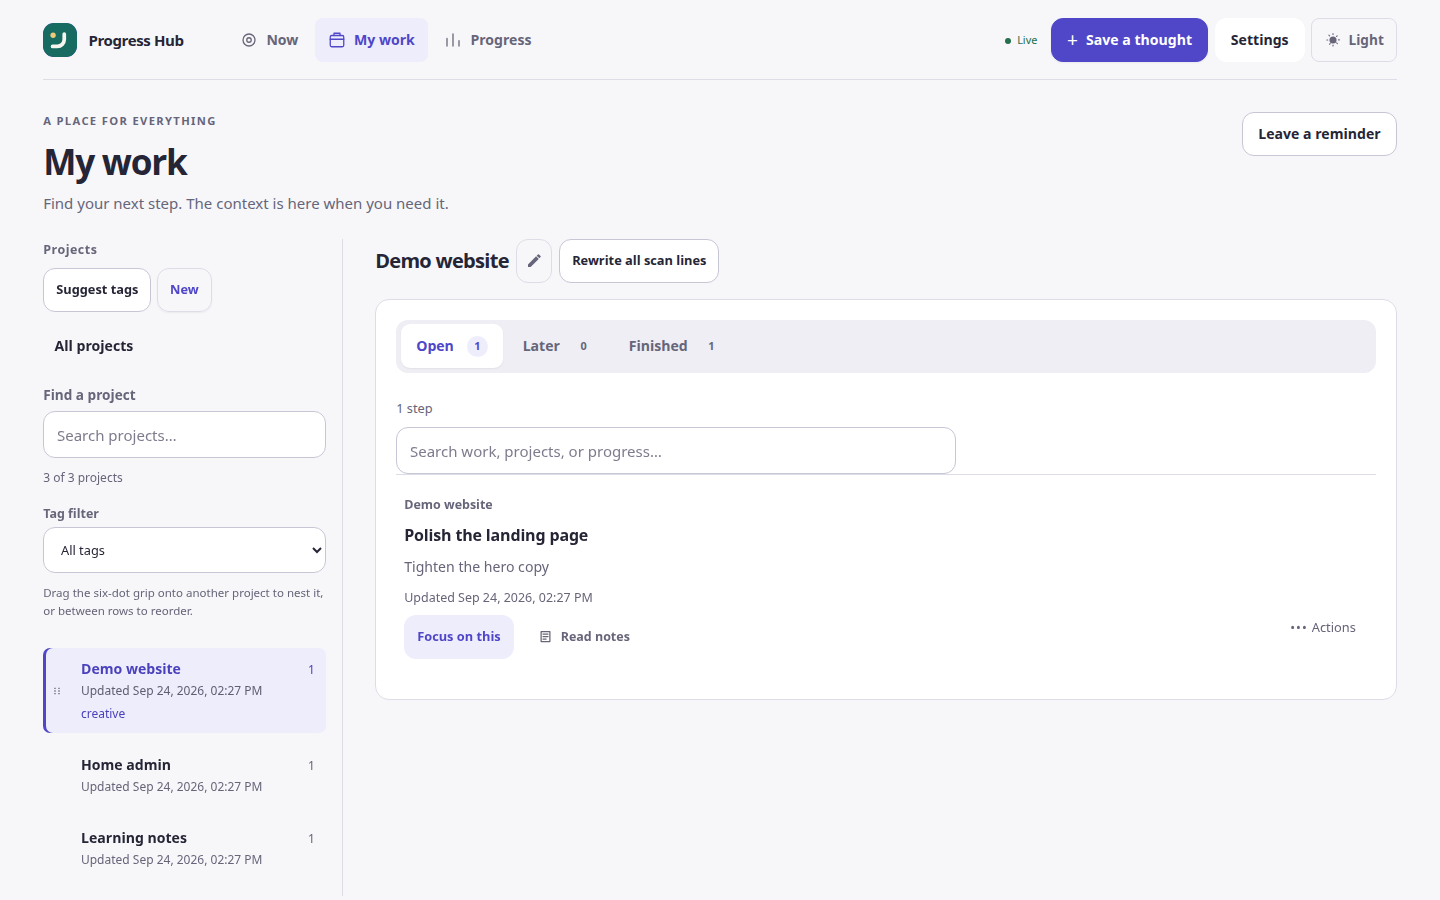
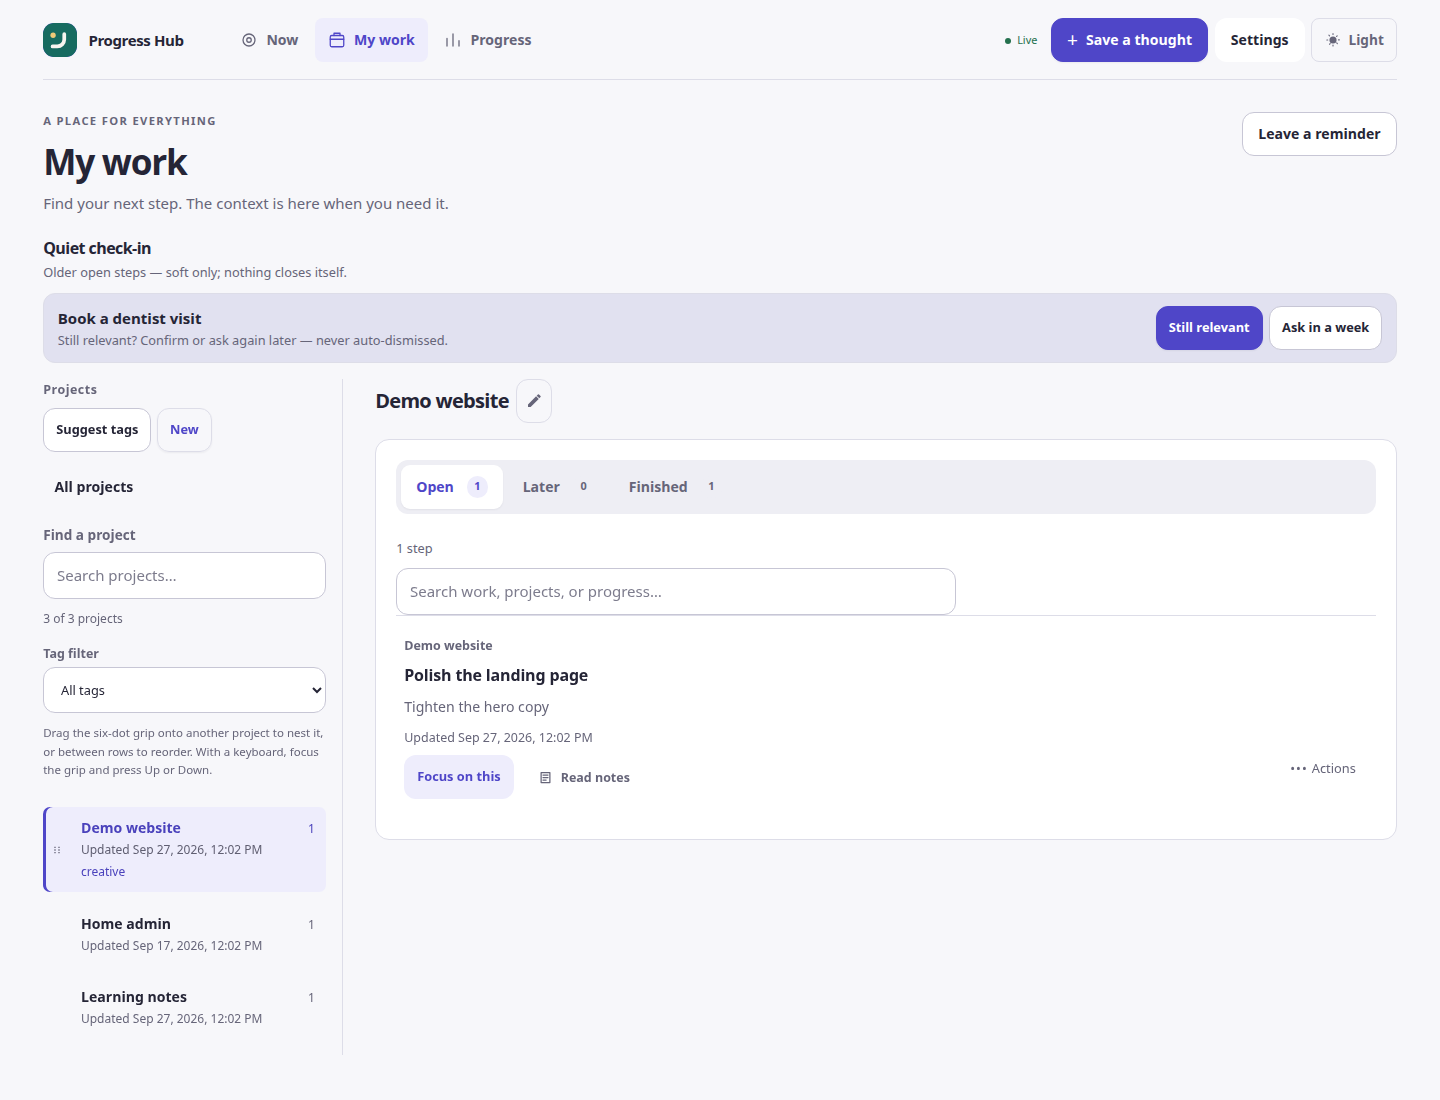
docs: refresh product screenshots for 0.18.0 docs
Regenerate README/docs gallery and hero shots against latest main UI
(Quiet check-in, Notes reader, Settings). Capture script seeds a stale
thread for triage framing and syncs the hero from the notes-reader shot.

diff --git a/scripts/capture_readme_screenshots.py b/scripts/capture_readme_screenshots.py
@@ -2,6 +2,10 @@
 
 Run: uv run --with playwright python scripts/capture_readme_screenshots.py
 Optional: ADHD_HUB_BROWSER_EXECUTABLE, ADHD_HUB_SCREENSHOT_DIR
+
+Prefer Playwright's bundled Chromium (omit ADHD_HUB_BROWSER_EXECUTABLE). Some
+system Chrome builds ignore Playwright viewport height, which crops Quiet
+check-in off the Now shot.
 """
 
 from __future__ import annotations
@@ -9,11 +13,14 @@ from __future__ import annotations
 import json
 import os
 import secrets
+import shutil
 import socket
+import sqlite3
 import subprocess
 import sys
 import tempfile
 import time
+from datetime import UTC, datetime, timedelta
 from pathlib import Path
 from urllib.request import Request, urlopen
 
@@ -151,6 +158,17 @@ def main() -> None:
                 },
             )
 
+            # Backdate one open thread so Quiet check-in (Wave 7 soft triage)
+            # appears on Now without inventing product state.
+            stale_at = (datetime.now(UTC) - timedelta(days=10)).isoformat()
+            with sqlite3.connect(Path(data) / "hub.sqlite3") as conn:
+                conn.execute(
+                    "UPDATE threads SET updated_at = ?, last_reminded_at = NULL, "
+                    "triage_snooze_until = NULL "
+                    "WHERE summary = ? AND status = 'open'",
+                    (stale_at, "Book a dentist visit"),
+                )
+
             with sync_playwright() as pw:
                 browser = pw.chromium.launch(
                     executable_path=os.environ.get("ADHD_HUB_BROWSER_EXECUTABLE")
@@ -158,7 +176,7 @@ def main() -> None:
                     args=["--no-sandbox"],
                 )
                 page = browser.new_page(
-                    viewport={"width": 1440, "height": 900},
+                    viewport={"width": 1440, "height": 1100},
                     reduced_motion="reduce",
                 )
                 page.goto(base + "/ui")
@@ -179,8 +197,10 @@ def main() -> None:
                         animations="disabled",
                     )
 
-                # Now
+                # Now (with Quiet check-in when a seeded thread is stale)
                 expect(page.locator("#now-view")).to_be_visible()
+                expect(page.locator("#now-triage")).to_be_visible()
+                expect(page.locator("#now-triage")).to_contain_text("Still relevant")
                 shot("now-desktop.png")
 
                 # My work with projects rail + thread cards
@@ -200,6 +220,8 @@ def main() -> None:
                     page.locator(".thread-notes-menu").first.click()
                 expect(page.locator("#notes-reader")).to_be_visible()
                 shot("notes-reader-desktop.png")
+                # Primary README/docs hero — same framing as the Notes reader shot.
+                shutil.copy2(out / "notes-reader-desktop.png", out / "my-work-notes-hero.png")
                 page.keyboard.press("Escape")
 
                 # Progress

diff --git a/README.md b/README.md
@@ -10,7 +10,7 @@ Inspired by [claude-adhd](https://github.com/shaheer-00/claude-adhd) (see [ATTRI
 
 ## Screenshots
 
-My work with the Notes & context reader (projects rail, thread card, Summarise):
+My work with Notes & context (Quiet check-in, projects rail, docked reader, Summarise):
 
 ![My work with Notes & context](docs/images/my-work-notes-hero.png)
 
@@ -18,7 +18,7 @@ My work with the Notes & context reader (projects rail, thread card, Summarise):
 | --- | --- | --- | --- |
 | ![Now](docs/images/now-desktop.png) | ![My work](docs/images/my-work-desktop.png) | ![Progress](docs/images/progress-desktop.png) | ![Settings](docs/images/settings-desktop.png) |
 
-Gallery shots use dummy demo data. More UI detail: [Dashboard](docs/dashboard.md) · [Notes & context](docs/notes.md).
+Gallery shots use dummy demo data (including a soft Quiet check-in). More UI detail: [Dashboard](docs/dashboard.md) · [Notes & context](docs/notes.md).
 
 ## Why
 

diff --git a/docs/dashboard.md b/docs/dashboard.md
@@ -2,7 +2,7 @@
 
 ![My work with Notes & context](images/my-work-notes-hero.png)
 
-*Desktop My work with the Notes & context reader.* See the [README screenshots](../README.md#screenshots) for Now, Progress, and Settings (gallery shots use dummy data).
+*Desktop My work with Quiet check-in and the Notes & context reader.* See the [README screenshots](../README.md#screenshots) for Now, Progress, and Settings (gallery shots use dummy data).
 
 On desktop, use the compact **Appearance** button in the app header to cycle System → Light → Dark (the button shows the current mode). The same choices are available under **Settings → Preferences**; on mobile, use Settings. The preference is saved in this browser and follows operating-system changes when set to System. If browser storage is blocked, the dashboard still works and preferences last for the current page visit.
 
